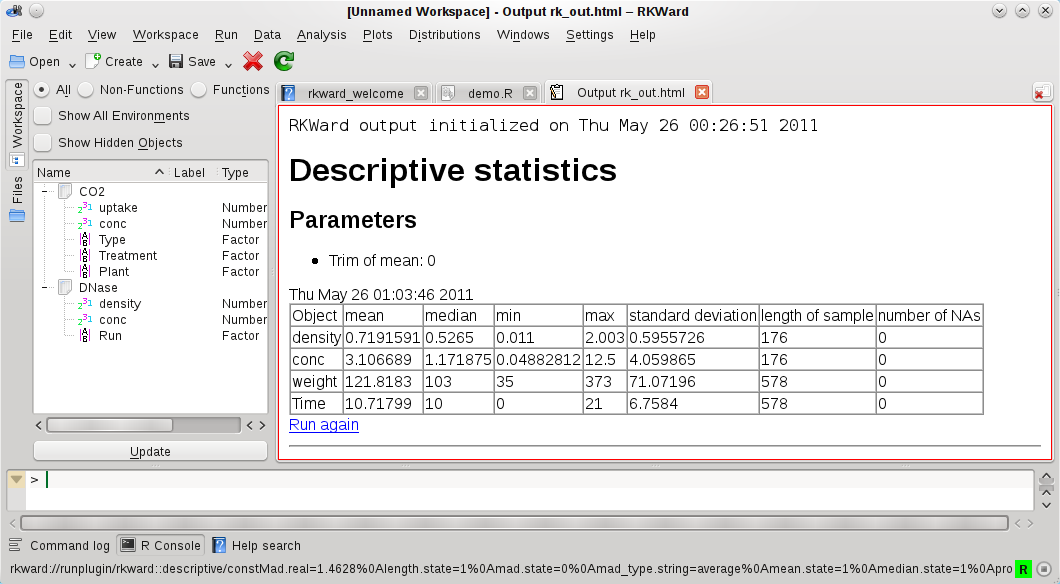
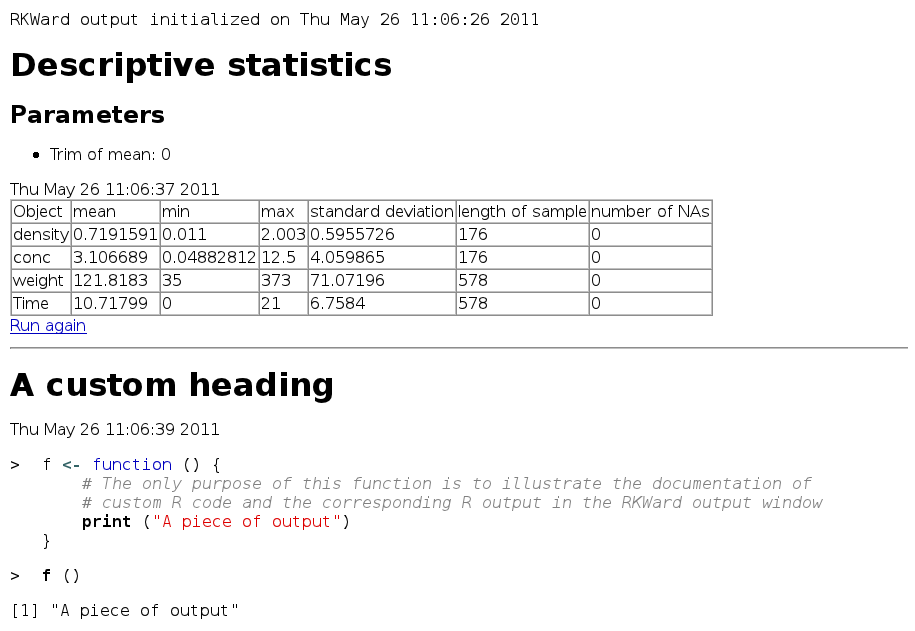
Redo Figure 8. Crop Figure 3. Updates for RKWard 0.5.6. Remove extra-figure section (see comment in the .tex)
git-svn-id: https://svn.code.sf.net/p/rkward/code@3626 7936002b-cd1d-0410-9ce3-d7ebf93b5162

diff --git a/branches/jss_dec_10/FINAL_JSS_TEX/FINAL_splitted/GUI_elements.tex b/branches/jss_dec_10/FINAL_JSS_TEX/FINAL_splitted/GUI_elements.tex
@@ -144,10 +144,10 @@ editor include syntax highlighting (both on screen and in printouts; for
 \proglang{R} and many other script types), code
 folding, block-wise indentation adjustments or commenting, automatic
 brackets, search and replace with plain text or regular expressions,
-and many more. The editor automatically saves snapshots of the
+and many more. Further, \pkg{Kate} can be extended by 
+customized actions implemented in \proglang{ECMAScript}\footnote{\url{http://kate-editor.org/2010/07/09/kate-scripted-actions}}.
+The editor automatically saves snapshots of the
 currently edited files at configurable intervals. 
-It is noteworthy that \pkg{Kate} is extendable by 
-customized \proglang{ECMAScript} (\proglang{JavaScript}) actions\footnote{\url{http://kate-editor.org/2010/07/09/kate-scripted-actions}}.
 
 For interaction with \proglang{R}, the editor has
 predefined shortcuts (and toolbar icons) for submitting the current line, the current 
@@ -441,10 +441,13 @@ available from \pkg{RreportGenerator} \citep{RaffelsbergerW2008}.
 \begin{figure}[t!]
  \centering
  \includegraphics[width=15.5cm]{./figures/results_output_cropped.png}
- \caption{Sample contents of the output window (red square). \code{DNase} and \code{ChickWeight} data of the \pkg{datasets} packages were used. 
-  Standard elements of plugin output include a standardized header, and a 
+ \caption{Sample contents of the output window. Upper portion: Result of analyzing sample data (from the \code{DNase} and \code{ChickWeight}
+  datasets of the \pkg{datasets} package) in the ``Descriptive Statistics'' plugin. Standard elements of plugin output include a standardized header, and a 
   ``Run again''-link, which allows to repeat the analysis with identical or 
-  similar parameters (Details of the previous analysis are shown in the status bar when the mouse pointer hovers over the ``Run again''-link). See also Figure 4 in the supplementary section accompining this paper.}
+  similar parameters. Lower portion: A custom heading added using the \code{rk.header()} function, and a short transcript of R code and the corresponding output.}
+% TF: Stefan: I've removed the bit below. It was not really designed to allow this, and for the more complex plugins, this is fairly useless,
+% since only a fraction of the options will fit in the status bar:
+% (Details of the previous analysis are shown in the status bar when the mouse pointer hovers over the ``Run again''-link)
  \label{fig:results_output}
 \end{figure}
 
@@ -456,7 +459,7 @@ processor. Output is based on
 HTML, and the raw
 HTML file and any images therein can be directly
 retrieved from a dedicated folder
-($\sim\!$/.rkward, by default). It is also
+(by default, this is a folder named ``.rkward'' inside the user's home folder). It is also
 possible to select and copy sections of the output directly from the
 output window, and to paste them into office applications as
 richly formatted text; even images and tables can be easily copied by drag \& drop to many office applications. In future releases, 
@@ -475,7 +478,11 @@ become the default output format eventually, but currently some SVG
 files produced by \proglang{R} are not properly
 rendered by older supported versions of the
 \pkg{KDE} libraries.
-\newpage 
+
+Users can also add custom content to the output window using \code{rk.header()}, \code{rk.print()}, and some
+related functions. Further, custom R code, and the corresponding R output can easily be documented in the
+\pkg{RKWard} output window, including syntax highlighting (see the lower portion of Figure~\ref{fig:results_output}).
+
 \subsection{Package management}
 \label{sec:package_management}
 The number of \proglang{R} packages available from the comprehensive \proglang{R} archive
@@ -521,7 +528,8 @@ Commands can be submitted while the \proglang{R} engine
 has not yet started, or while another lengthy calculation is still
 in progress. In these cases, commands are placed into a queue first, and
 executed as soon as the \proglang{R} engine becomes
-available. The ``pending jobs'' window lists current \proglang{R} commands waiting for
+available. The ``pending jobs'' window (not shown in the tool area by default)
+lists current \proglang{R} commands waiting for
 evaluation by the \proglang{R} engine. While this
 window is mostly of interest to application developers for diagnostic
 purposes, it can also be used to interrupt selected commands.

diff --git a/branches/jss_dec_10/FINAL_JSS_TEX/FINAL_splitted/RKWard_annex.tex b/branches/jss_dec_10/FINAL_JSS_TEX/FINAL_splitted/RKWard_annex.tex
@@ -88,6 +88,8 @@ Disclaimer: This supplement was not part of the peer-review process of the Journ
 
 \include{technical}
 \include{example_plugin}
-\include{annex_figures_extended}
+% TF: I'm worried that this will look like bike-shedding to the editors. So we have been given permission to keep our technical section,
+% but I don't think that counts as permission to add too much new content (with the expection to stuff that is new in 0.5.6).
+%\include{annex_figures_extended}
 \bibliography{sources}
 \end{document}
